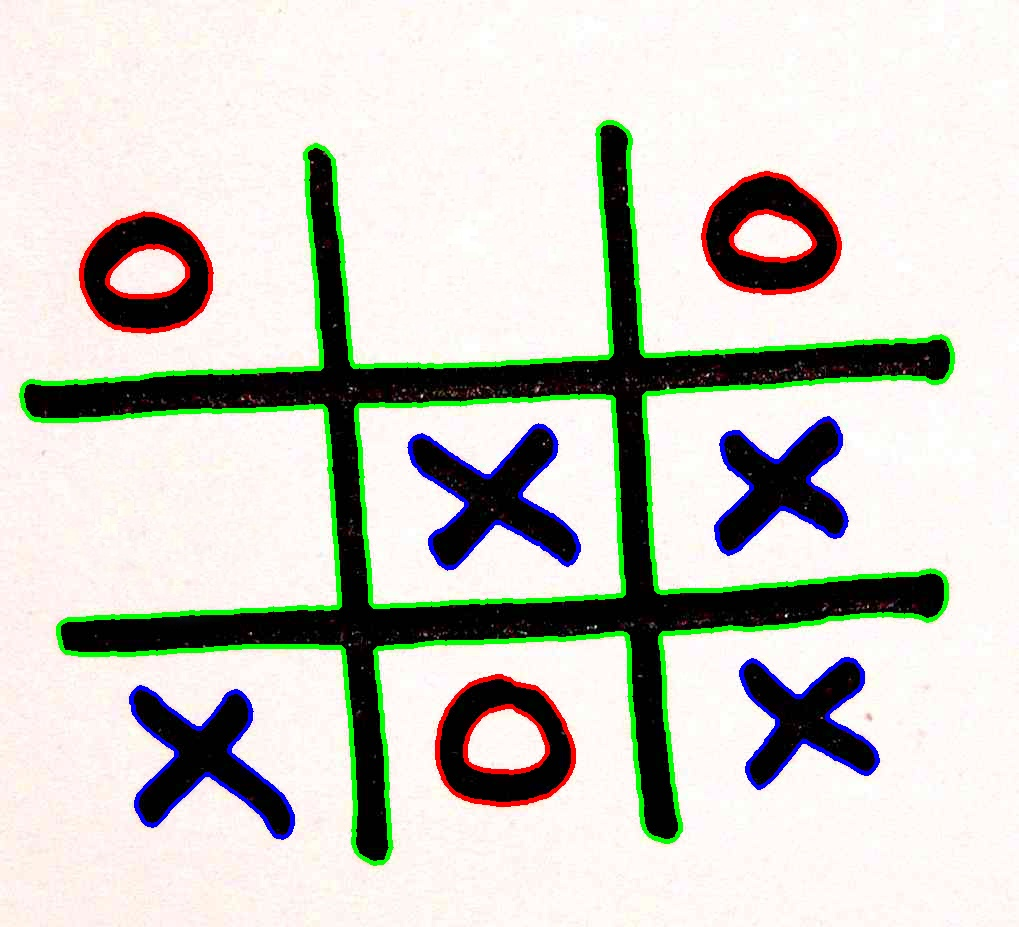
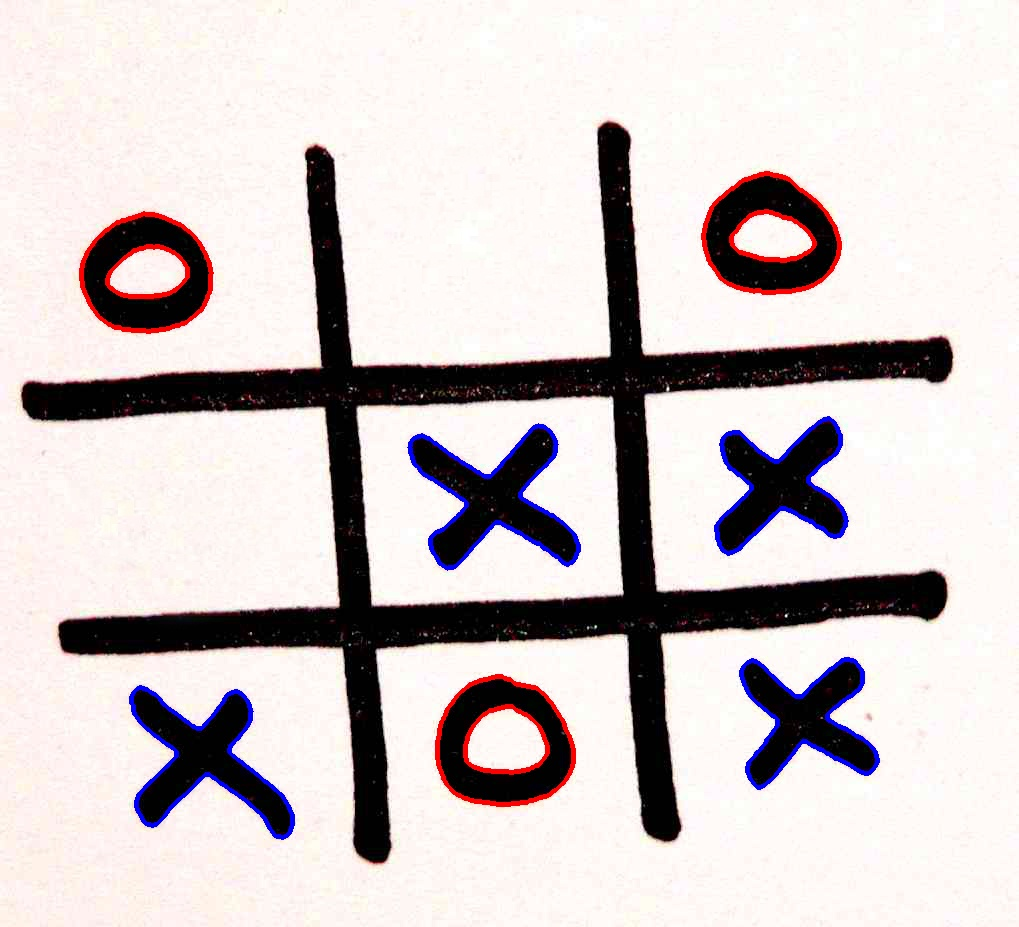
=)) last

Changed region(s): [[0.0, 0.1208, 0.9431, 0.9364], [0.7301, 0.6041, 0.9431, 0.6645], [0.8822, 0.6645, 0.9127, 0.6947]]

diff --git a/tictactoedetect.py b/tictactoedetect.py
@@ -126,11 +126,7 @@ for file_path in allfiles:
     cv2.imwrite('binary-image/' + os.path.basename(file_path), binary_img)
     boards_data = new_detect_boards(contours, too_small=0.25)
     contours_image = image
-    print(len(contours))
-    for contour in contours:
-        cv2.drawContours(contours_image, contour, -1, (0, 255, 0), 3)
 
-    cv2.imwrite('contour/' + os.path.basename(file_path), contours_image)
 
     # process contours
     processed_contours = [[] for _ in range(0, len(boards_data) + 1)]  # [[cx, cy, w, h, contours], [], [], ...]
